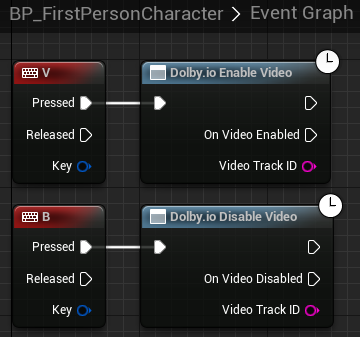
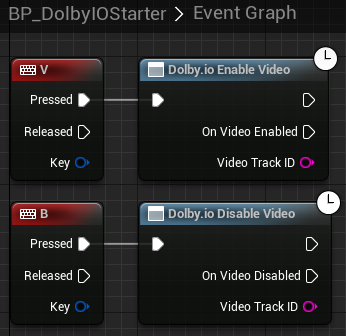
BP_DolbyIOStarter

diff --git a/docs/docs/tutorial/common-setup.md b/docs/docs/tutorial/common-setup.md
@@ -4,7 +4,7 @@ sidebar_label: Common Tutorial Setup
 title: Common Tutorial Setup
 ---
 
-This tutorial explains how to initialize the plugin.
+This tutorial explains how to initialize the plugin and connect to a conference, which is a common prerequisite for other tutorials.
 
 ## Prerequisites
 
@@ -12,16 +12,16 @@ The tutorials and samples are designed to work with the Unreal Engine 5 First Pe
 
 The sample Blueprints included with the plugin are designed in Unreal Engine 5 and will not work with Unreal Engine 4. You can still use Unreal Engine 4 to follow the tutorials but you will not be able to use the sample Blueprints and will need to create them from scratch.
 
-## Initialize the plugin
+## Getting started
 
-You can initialize the plugin from multiple places, such as the game instance or the level Blueprint, but in this example, we will use the First Person Character Blueprint since it is already in the template. 
+1. Find `BP_DolbyIOStarter` in the plugin's content in `Content Browser` and drag it onto the scene.
 
-1. In the Content Browser, open `All -> Content -> FirstPerson -> Blueprints -> BP_FirstPersonCharacter`. If you set up the project from a C++ template, click `Open Full Blueprint Editor`.
+> **_NOTE:_** If you do not see this item, go to the `Content Browser` settings and tick `Show Plugin Content`.
 
-2. Add `Dolby.io Observer` as a component and add a handler for the [`On Token Needed`](../blueprints/Events/on-token-needed) event. Wire the nodes as presented in the following example and paste your client access token into the [`Dolby.io Set Token`](../blueprints/Functions/set-token) node.
+2. Make sure the newly-placed actor is selected and enter your client access token or app key and secret combination in the `Details` panel.
 
-![](../../static/img/common-setup-connect.png)
+You can modify other parameters of this actor as you see fit, but using the demo conference does not make sense for some tutorials, because it is an audio-only conference.
 
-In development, you may also use the [`Get Dolby.io Token`](../blueprints/Functions/get-token) helper to use your app key and secret instead.
+If you launch the game now, assuming the credentials are set up appropriately, you should connect to a conference.
 
-After this step, you should connect to a conference that has a name that you specified in the [`Dolby.io Connect`](../blueprints/Functions/connect) node upon starting your game. If you cannot connect, follow the [Getting started - first conference](first-conference) tutorial first.
+> **_NOTE:_** `BP_DolbyIOStarter` is a sample Blueprint which handles several "key pressed" events and as such is designed to work the template game only, because it will likely override key bindings in more advanced games. It is meant to be used as an example on how to get started, not for use in production.

diff --git a/docs/docs/tutorial/screenshare-preview.md b/docs/docs/tutorial/screenshare-preview.md
@@ -20,15 +20,13 @@ Before you start, follow the [common setup](common-setup) tutorial.
 
 ![](../../static/img/video-plane-result.png)
 
-3. Test the preview by going to the `BP_FirstPersonCharacter` Blueprint and adding the following nodes to enable video with the "Z" key and disable it with the "X" key:
+If you launch the game now, assuming there is no conflicting screen share going on, you should see your screen share feed on the plane when you press "Z" and the plane should go blank when you press "X". This is because `BP_DolbyIOStarter` handles these key events as follows:
 
 ![](../../static/img/screenshare-preview-toggle.png)
 
-If you launch the game now, assuming you connect to the conference successfully and there is no conflicting screen share going on, you should see your screen share feed on the plane when you press "Z" and the plane should go blank when you press "X".
+This particular example will always share the first available screen share source, which is likely going to be the primary monitor screen. Selecting a screen share source is out of the scope of this tutorial as it requires some UI to parse the available screen share sources, received using [`Dolby.io Get Screenshare Sources`](../blueprints/Functions/get-screenshare-sources), into some sort of menu. The general flow however remains the same and requires getting screen share sources, choosing the desired source from the list, and starting screen share using this source.
 
 ![](../../static/img/screenshare-preview-result.png)
-
-This particular example will always share the first available screen share source, which is likely going to be the primary monitor screen. Selecting a screen share source is out of the scope of this tutorial as it requires some UI to parse the available screen share sources, received using [`Dolby.io Get Screenshare Sources`](../blueprints/Functions/get-screenshare-sources), into some sort of menu. The general flow however remains the same and requires getting screen share sources, choosing the desired source from the list, and starting screen share using this source.
 
 ## How it works
 

diff --git a/docs/docs/tutorial/camera-preview.md b/docs/docs/tutorial/camera-preview.md
@@ -20,13 +20,9 @@ Before you start, [set up](common-setup) your project.
 
 ![](../../static/img/video-plane-result.png)
 
-3. Test the camera preview by going to the `BP_FirstPersonCharacter` Blueprint and adding the following nodes to enable video with the "V" key and disable it with the "B" key:
+If you launch the game now, you should see your camera feed on the plane when you press "V" and the plane should go blank when you press "B". This is because `BP_DolbyIOStarter` handles these key events as follows:
 
 ![](../../static/img/camera-preview-toggle.png)
-
-If you launch the game now, assuming the plugin is initialized correctly, you should see your camera feed on the plane when you press "V" and the plane should go blank when you press "B".
-
-![](../../static/img/camera-preview-result.png)
 
 ## How it works
 
